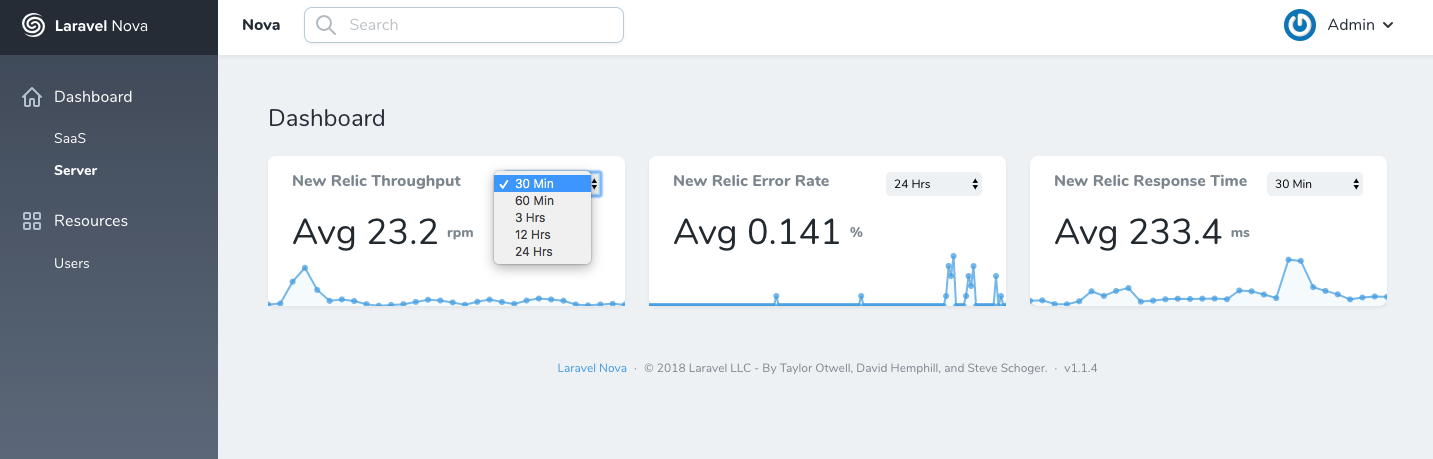
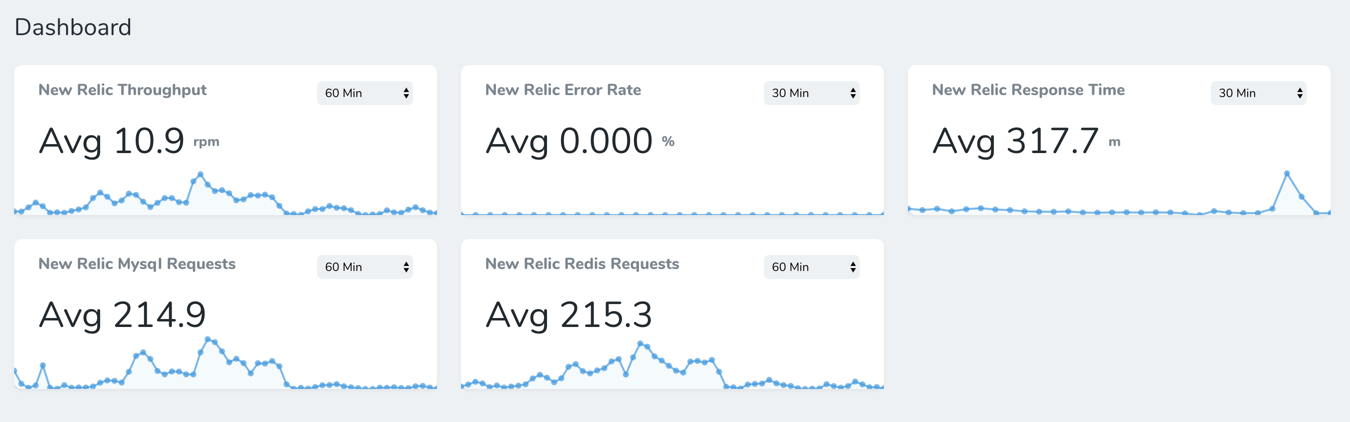
add mysql and redis

diff --git a/src/NewRelic.php b/src/NewRelic.php
@@ -17,16 +17,21 @@ class NewRelic
     /** @var string */
     protected $appId;
 
+    /** @var string */
+    protected $accountId;
+
     public function __construct()
     {
         $this->client = new Client([
             'base_uri' => 'https://api.newrelic.com/',
             'headers' => [
                 'X-Api-Key' => config('services.newrelic.api_key'),
+                'X-Query-Key' => config('services.newrelic.insights_api_key'),
                 'Content-Type' => 'application/json'
             ]
         ]);
         $this->appId = config('services.newrelic.app_id');
+        $this->accountId = config('services.newrelic.account_id');
     }
 
     public function responseTime(int $range): array
@@ -60,6 +65,45 @@ class NewRelic
         ])->getBody();
 
         return $this->reMap(json_decode($response)->metric_data->metrics[0]->timeslices, 'requests_per_minute');
+    }
+
+    public function mySQLRequests(int $range): array
+    {
+        $response = $this->client->get('v2/applications/' . $this->appId . '/metrics/data.json', [
+            'query' => [
+                'names[]' => 'Datastore/MySQL/all',
+                'values[]' => 'requests_per_minute',
+                'from' => now()->subMinutes($range)->toIso8601String(),
+                'to' => now()->toIso8601String()
+            ]
+        ])->getBody();
+
+        return $this->reMap(json_decode($response)->metric_data->metrics[0]->timeslices, 'requests_per_minute');
+    }
+
+    public function redisRequests(int $range): array
+    {
+        $response = $this->client->get('v2/applications/' . $this->appId . '/metrics/data.json', [
+            'query' => [
+                'names[]' => 'Datastore/Redis/all',
+                'values[]' => 'requests_per_minute',
+                'from' => now()->subMinutes($range)->toIso8601String(),
+                'to' => now()->toIso8601String()
+            ]
+        ])->getBody();
+
+        return $this->reMap(json_decode($response)->metric_data->metrics[0]->timeslices, 'requests_per_minute');
+    }
+
+    public function transactions(int $range): array
+    {
+        $response = $this->client->get('https://insights-api.newrelic.com/v1/accounts/' . $this->accountId . '/query', [
+            'query' => [
+                'nrql' => 'SELECT average(duration) FROM Transaction FACET name SINCE 1 day ago WHERE appId = ' . $this->appId,
+            ]
+        ])->getBody();
+
+        return json_decode($response)->facets;
     }
 
     public function errorRate(int $range): array

diff --git a/src/NewRelicMysqlRequests.php b/src/NewRelicMysqlRequests.php
@@ -1,0 +1,58 @@
+<?php
+
+namespace Napp\NewRelicMetrics;
+
+use Illuminate\Http\Request;
+use Laravel\Nova\Metrics\Trend;
+
+class NewRelicMysqlRequests extends Trend
+{
+    /**
+     * Calculate the value of the metric.
+     *
+     * @param  \Illuminate\Http\Request  $request
+     * @return mixed
+     */
+    public function calculate(Request $request)
+    {
+        $data = (new NewRelic())->mySQLRequests((int) $request->input('range'));
+
+        return $this->result('Avg ' . $data[1])->trend($data[0]);
+    }
+
+    /**
+     * Get the ranges available for the metric.
+     *
+     * @return array
+     */
+    public function ranges()
+    {
+        return [
+            30 => '30 Min',
+            60 => '60 Min',
+            180 => '3 Hrs',
+            720 => '12 Hrs',
+            1440 => '24 Hrs',
+        ];
+    }
+
+    /**
+     * Determine for how many minutes the metric should be cached.
+     *
+     * @return  \DateTimeInterface|\DateInterval|float|int
+     */
+    public function cacheFor()
+    {
+        return now()->addMinutes(2);
+    }
+
+    /**
+     * Get the URI key for the metric.
+     *
+     * @return string
+     */
+    public function uriKey()
+    {
+        return 'new-relic-mysql-requests';
+    }
+}

diff --git a/src/NewRelicRedisRequests.php b/src/NewRelicRedisRequests.php
@@ -1,0 +1,58 @@
+<?php
+
+namespace Napp\NewRelicMetrics;
+
+use Illuminate\Http\Request;
+use Laravel\Nova\Metrics\Trend;
+
+class NewRelicRedisRequests extends Trend
+{
+    /**
+     * Calculate the value of the metric.
+     *
+     * @param  \Illuminate\Http\Request  $request
+     * @return mixed
+     */
+    public function calculate(Request $request)
+    {
+        $data = (new NewRelic())->redisRequests((int) $request->input('range'));
+
+        return $this->result('Avg ' . $data[1])->trend($data[0]);
+    }
+
+    /**
+     * Get the ranges available for the metric.
+     *
+     * @return array
+     */
+    public function ranges()
+    {
+        return [
+            30 => '30 Min',
+            60 => '60 Min',
+            180 => '3 Hrs',
+            720 => '12 Hrs',
+            1440 => '24 Hrs',
+        ];
+    }
+
+    /**
+     * Determine for how many minutes the metric should be cached.
+     *
+     * @return  \DateTimeInterface|\DateInterval|float|int
+     */
+    public function cacheFor()
+    {
+        return now()->addMinutes(2);
+    }
+
+    /**
+     * Get the URI key for the metric.
+     *
+     * @return string
+     */
+    public function uriKey()
+    {
+        return 'new-relic-redis-requests';
+    }
+}

diff --git a/README.md b/README.md
@@ -16,6 +16,8 @@ add the following to `config/services.php`
 ```php
 'newrelic' => [
     'api_key' => env('NEW_RELIC_API_KEY'),
+    'insights_api_key' => env('NEW_RELIC_INSIGHTS_API_KEY'),
+    'account_id' => env('NEW_RELIC_ACCOUNT_ID'),
     'app_id' => env('NEW_RELIC_APP_ID'),
 ]
 ```
@@ -33,6 +35,8 @@ public function cards()
         new \Napp\NewRelicMetrics\NewRelicThroughput,
         new \Napp\NewRelicMetrics\NewRelicErrorRate,
         new \Napp\NewRelicMetrics\NewRelicResponseTime,
+        new \Napp\NewRelicMetrics\NewRelicMysqlRequests,
+        new \Napp\NewRelicMetrics\NewRelicRedisRequests,
     ];
 }
 

diff --git a/CHANGELOG.md b/CHANGELOG.md
@@ -1,0 +1,7 @@
+# Changelog
+
+## 1.0.1 - 2018-10-05
+- Added MySQL and Redis metrics
+
+## 1.0.0 - 2018-10-05
+- Added Response Time, Throughput and Error Rate metrics
